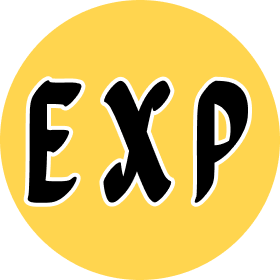
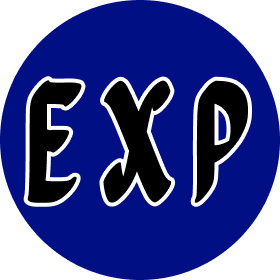
4 commit

diff --git a/index.html b/index.html
@@ -3,7 +3,7 @@
 <head>
     <meta charset="UTF-8">
     <meta name="viewport" content="width=device-width, initial-scale=1.0">
-    <title>Explicit</title>
+    <title>Explicit Launch</title>
     <link rel="stylesheet" href="style.css">
     <link rel="icon" type="image/x-icon" href="img/x-icon.png">
 </head>

diff --git a/style.css b/style.css
@@ -16,7 +16,7 @@ html, body {
   
 body {
     align-items: center;
-    background-color: #ffd54f;
+    background-color: #000F84;
     display: flex;
     font-family: -apple-system, 
         BlinkMacSystemFont, 
